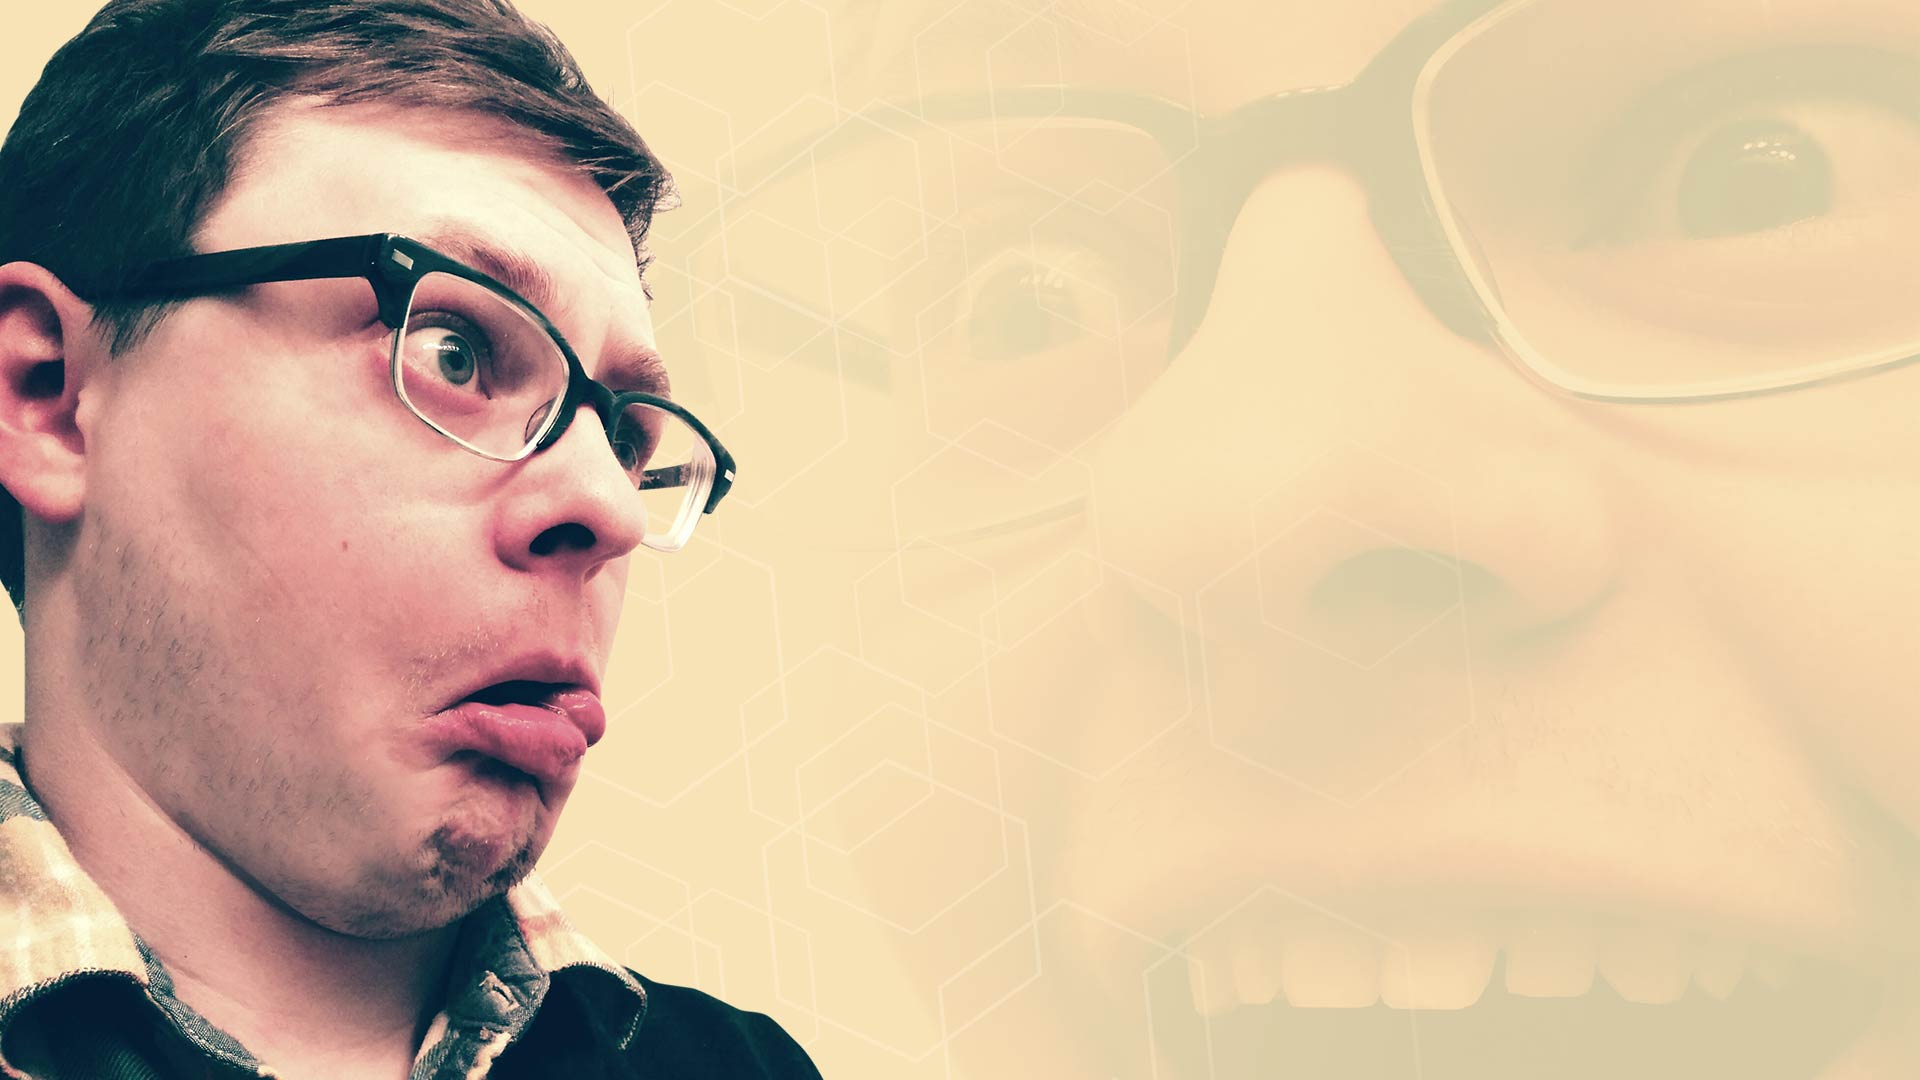
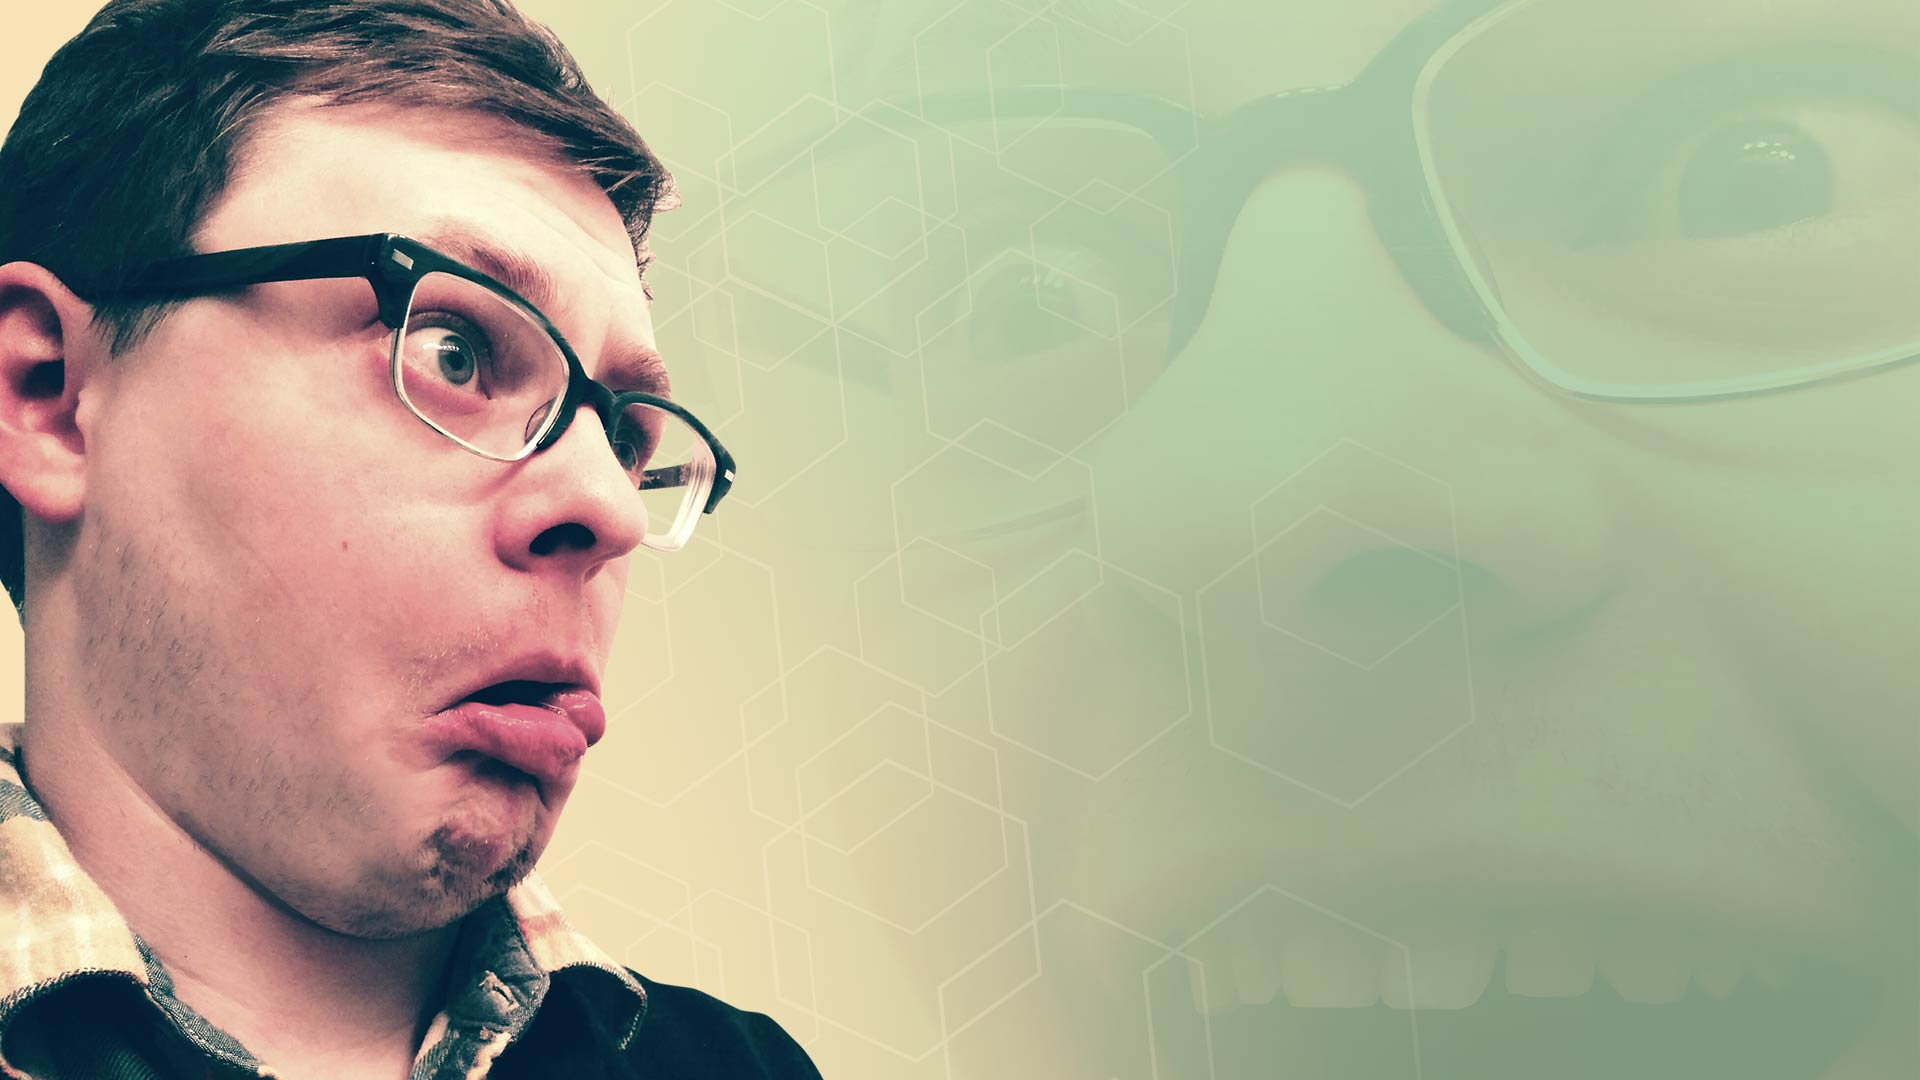
Added global sheet bound with background.

diff --git a/stylesheets/main.scss b/stylesheets/main.scss
@@ -14,11 +14,14 @@ $font-stack: 'Roboto', Helvetica, sans-serif;
 
 
 /* Colors */
-$primary-color: #111;
-$secondary-color: #ccc;
+$color-offBlack: rgb(10, 10, 30);
+$color-offWhite: rgb(240, 240, 240);
 $color-sepia: rgb(248, 227, 182);
 $color-sepia-darker: rgb(228, 207, 162);
 $color-sepia-bg: rgba(248, 227, 182, 0.75);
+$color-seafoam-bg: rgba(191, 214, 175, 0.75);
+$color-navy: rgb(0, 0, 60);
+$color-navy-bg: rgba(0, 0, 60, 0.95);
 
 
 
@@ -27,15 +30,15 @@ $color-sepia-bg: rgba(248, 227, 182, 0.75);
 
 /* Global Styles */
 body {
-  font: 16px $font-stack;
-  color: $primary-color;
-  letter-spacing: 0.1em;
-  font-weight: 300;
-  background: $color-sepia-darker url('../img/bkTile.png') fixed;
+    font: 16px $font-stack;
+    color: $color-navy;
+    letter-spacing: 0.1em;
+    font-weight: 300;
+    background: $color-offBlack url('../img/bkTile-site.png') fixed;
 }
 h1, h2, h3, h4, h5, h6 {
-  font-family: $font-stack;
-  font-weight: 300;
+    font-family: $font-stack;
+    font-weight: 300;
 }
 
 
@@ -44,6 +47,11 @@ h1, h2, h3, h4, h5, h6 {
 
 
 /* General Container Styles */
+.sheet-global {
+    max-width: 1400px;
+    margin: 0 auto;
+    background: $color-sepia-darker url('../img/bkTile.png') fixed;
+}
 .container { min-width: 250px; }
 .contentBlock{ padding: 2em 1em; margin: 1em 0; }
 
@@ -54,10 +62,10 @@ h1, h2, h3, h4, h5, h6 {
 /* Section Styles */
 header{ 
   background: $color-sepia url('../img/hero_face2.jpg') no-repeat left center;
-  color: primary-color;
-  h1, p { background-color: $color-sepia-bg; padding: 0.25em; opacity: 1;}
+  color: $color-navy;
+  h1, p { background-color: $color-seafoam-bg; padding: 0.1em 0.25em; opacity: 1;}
   h1{ font-size: 4em; }
-  p { font-size: 1.25em; }
+  p { font-size: 1.25em; font-weight: 400; }
   .container {
     padding-top: 25%;
     padding-bottom: 25%;
@@ -71,20 +79,19 @@ header{
 .contentBlocks { 
   margin-top: 1em;
   .contentBlock{
-    color: $secondary-color;
+    color: $color-offWhite;
     font-weight: 100;
-    background: rgb(10, 10, 10); /* The Fallback */
-    background: rgba(10, 10, 10, 0.60);
+    background: $color-navy-bg;
     overflow: hidden;
     p { font-size: 2.5em; }
   }
 }
 .externalLinks {
-  color: $secondary-color;
-  background: $primary-color;
+  color: $color-offWhite;
+  background: $color-navy;
   padding-bottom: 0.25em;
   a {
-    color: $secondary-color;
+    color: $color-offWhite;
     margin-top: 0.25em;
   }
 }

diff --git a/index.html b/index.html
@@ -21,7 +21,7 @@
             <p class="chromeframe">You are using an <strong>outdated</strong> browser. Please <a href="http://browsehappy.com/">upgrade your browser</a> or <a href="http://www.google.com/chromeframe/?redirect=true">activate Google Chrome Frame</a> to improve your experience.</p>
         <![endif]-->
     
-
+        <div class="sheet-global">
         <header>
             <div class="container">
                 <h1>Life Should Be Fun, Right?</h1>
@@ -81,19 +81,21 @@
             </div><!-- /.container -->
         </section><!-- /.contentBlocks -->
         
-    </div> <!-- /container -->        <script src="//ajax.googleapis.com/ajax/libs/jquery/1.10.1/jquery.min.js"></script>
-        <script>window.jQuery || document.write('<script src="js/vendor/jquery-1.10.1.min.js"><\/script>')</script>
+    </div> <!-- /.sheet-global --> 
 
-        <script src="js/vendor/bootstrap.min.js"></script>
-
-        <script src="js/plugins.js"></script>
-        <script src="js/main.js"></script>
-
-        <script>
-            var _gaq=[['_setAccount','UA-XXXXX-X'],['_trackPageview']];
-            (function(d,t){var g=d.createElement(t),s=d.getElementsByTagName(t)[0];
-            g.src='//www.google-analytics.com/ga.js';
-            s.parentNode.insertBefore(g,s)}(document,'script'));
-        </script>
-    </body>
+    <script src="//ajax.googleapis.com/ajax/libs/jquery/1.10.1/jquery.min.js"></script>
+    <script>window.jQuery || document.write('<script src="js/vendor/jquery-1.10.1.min.js"><\/script>')</script>
+    
+    <script src="js/vendor/bootstrap.min.js"></script>
+    
+    <script src="js/plugins.js"></script>
+    <script src="js/main.js"></script>
+    
+    <script>
+    var _gaq=[['_setAccount','UA-XXXXX-X'],['_trackPageview']];
+    (function(d,t){var g=d.createElement(t),s=d.getElementsByTagName(t)[0];
+    g.src='//www.google-analytics.com/ga.js';
+    s.parentNode.insertBefore(g,s)}(document,'script'));
+    </script>
+</body>
 </html>

diff --git a/css/main.css b/css/main.css
@@ -5,16 +5,21 @@
 /* Global Styles */
 body {
   font: 16px "Roboto", Helvetica, sans-serif;
-  color: #111111;
+  color: #00003c;
   letter-spacing: 0.1em;
   font-weight: 300;
-  background: #e4cfa2 url("../img/bkTile.png") fixed; }
+  background: #0a0a1e url("../img/bkTile-site.png") fixed; }
 
 h1, h2, h3, h4, h5, h6 {
   font-family: "Roboto", Helvetica, sans-serif;
   font-weight: 300; }
 
 /* General Container Styles */
+.sheet-global {
+  max-width: 1400px;
+  margin: 0 auto;
+  background: #e4cfa2 url("../img/bkTile.png") fixed; }
+
 .container {
   min-width: 250px; }
 
@@ -25,15 +30,16 @@ h1, h2, h3, h4, h5, h6 {
 /* Section Styles */
 header {
   background: #f8e3b6 url("../img/hero_face2.jpg") no-repeat left center;
-  color: primary-color; }
+  color: #00003c; }
   header h1, header p {
-    background-color: rgba(248, 227, 182, 0.75);
-    padding: 0.25em;
+    background-color: rgba(191, 214, 175, 0.75);
+    padding: 0.1em 0.25em;
     opacity: 1; }
   header h1 {
     font-size: 4em; }
   header p {
-    font-size: 1.25em; }
+    font-size: 1.25em;
+    font-weight: 400; }
   header .container {
     padding-top: 25%;
     padding-bottom: 25%; }
@@ -44,19 +50,17 @@ header {
 .contentBlocks {
   margin-top: 1em; }
   .contentBlocks .contentBlock {
-    color: #cccccc;
+    color: #f0f0f0;
     font-weight: 100;
-    background: #0a0a0a;
-    /* The Fallback */
-    background: rgba(10, 10, 10, 0.6);
+    background: rgba(0, 0, 60, 0.95);
     overflow: hidden; }
     .contentBlocks .contentBlock p {
       font-size: 2.5em; }
 
 .externalLinks {
-  color: #cccccc;
-  background: #111111;
+  color: #f0f0f0;
+  background: #00003c;
   padding-bottom: 0.25em; }
   .externalLinks a {
-    color: #cccccc;
+    color: #f0f0f0;
     margin-top: 0.25em; }
